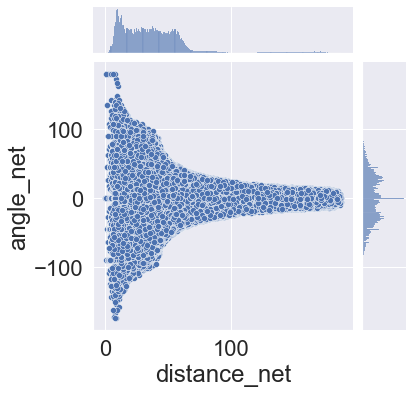
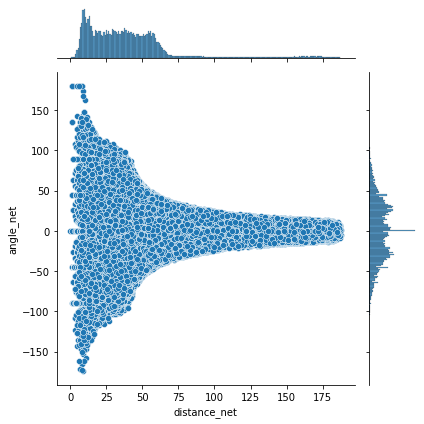
#15 adding missing figure to the blog

diff --git a/project/ift6758/visualizations/plot_feature_engineer_1.py b/project/ift6758/visualizations/plot_feature_engineer_1.py
@@ -33,6 +33,7 @@ plt.show()
 #%%
 # joint plot of distance vs angle
 joint_distance_angle = sns.jointplot(data=data, x='distance_net', y='angle_net')
+plt.tight_layout()
 plt.show()
 
 # %%

diff --git a/blog/_posts/2021-11-3-milestone-2.md b/blog/_posts/2021-11-3-milestone-2.md
@@ -27,24 +27,29 @@ Using our work from the previous milestone, we have extended our features by add
 </figure>
 
 <figure style="display: block;margin-left: auto; margin-right: auto;width:50%;height:50%;">
-    <img src="/public/goal_rate_vs_distance.png" alt="goal_rate_vs_distance">
-    <figcaption style="font-size: 12px;text-align: center;">Figure 3: Goal rate vs distance.</figcaption>
+    <img src="/public/angle_vs_distance.png" alt="angle_vs_distance">
+    <figcaption style="font-size: 12px;text-align: center;">Figure 3: angle vs distance.</figcaption>
 </figure>
 
-All the figures above give us interesting infromation about shots and goals in the NHL. If we analyze Figure 3, we can observe that when attacking players are very close to the opponent's net, the chance that they score is much higher, which intuitively makes sense.
+<figure style="display: block;margin-left: auto; margin-right: auto;width:50%;height:50%;">
+    <img src="/public/goal_rate_vs_distance.png" alt="goal_rate_vs_distance">
+    <figcaption style="font-size: 12px;text-align: center;">Figure 4: Goal rate vs distance.</figcaption>
+</figure>
+
+All the figures above give us interesting infromation about shots and goals in the NHL. If we analyze Figure 4, we can observe that when attacking players are very close to the opponent's net, the chance that they score is much higher, which intuitively makes sense.
 
 <figure style="display: block;margin-left: auto; margin-right: auto;width:50%;height:50%;">
     <img src="/public/goal_rate_vs_angle.png" alt="goal_rate_vs_angle">
-    <figcaption style="font-size: 12px;text-align: center;">Figure 4: Goal rate vs angle.</figcaption>
+    <figcaption style="font-size: 12px;text-align: center;">Figure 5: Goal rate vs angle.</figcaption>
 </figure>
 
-From Figure 4 above, we can see that the goal rate is much higher when the shot is coming from the left and right side compared when the shot comes from the the center of the ice. This makes sense  as goalies are much more vulnerable when shots come from the top of the circles (both left and right side).
+From Figure 5 above, we can see that the goal rate is much higher when the shot is coming from the left and right side compared when the shot comes from the the center of the ice. This makes sense  as goalies are much more vulnerable when shots come from the top of the circles (both left and right side).
 
-Another interesting thing about Figure 4 is when we compare the goal rate from the left side to the right side. One reason why the goal rate is higher on the right side could be because the majority of NHL goalies have their glove on their left hand (maybe it's easier to stop shots with the glove in contrast to the blocker hand). Another reason might simply be because players shooting from the right side are much better than the ones shooting from the left side and, therefore, have a higher goal rate.
+Another interesting thing about Figure 5 is when we compare the goal rate from the left side to the right side. One reason why the goal rate is higher on the right side could be because the majority of NHL goalies have their glove on their left hand (maybe it's easier to stop shots with the glove in contrast to the blocker hand). Another reason might simply be because players shooting from the right side are much better than the ones shooting from the left side and, therefore, have a higher goal rate.
 
 <figure style="display: block;margin-left: auto; margin-right: auto;width:50%;height:50%;">
     <img src="/public/histogram_goals.png" alt="Goals (empty net and non-empty net) vs distance">
-    <figcaption style="font-size: 12px;text-align: center;">Figure 5: Goals (empty net and non-empty net) vs distance from net.</figcaption>
+    <figcaption style="font-size: 12px;text-align: center;">Figure 6: Goals (empty net and non-empty net) vs distance from net.</figcaption>
 </figure>
 
-Looking at the data from Figure 5, we can observe many interesting facts. Firstly, the vast majority of goals are on non-empty net which is logical since goalies are in the net most of the time. Secondly, we can observe that most of the goals are being scored within 60 feet from the net, which is inside the opponents' half of the rink. These two observations are aligned with our domain knowledge, and it makes perfect sense that the further you are from the opponents' net, the harder it is to score when there is a goalie in front of the net. With that said, the goals that were made from a distance of 150 feet when there was a goalie sound a bit unlikely.
+Looking at the data from Figure 6, we can observe many interesting facts. Firstly, the vast majority of goals are on non-empty net which is logical since goalies are in the net most of the time. Secondly, we can observe that most of the goals are being scored within 60 feet from the net, which is inside the opponents' half of the rink. These two observations are aligned with our domain knowledge, and it makes perfect sense that the further you are from the opponents' net, the harder it is to score when there is a goalie in front of the net. With that said, the goals that were made from a distance of 150 feet when there was a goalie sound a bit unlikely.
